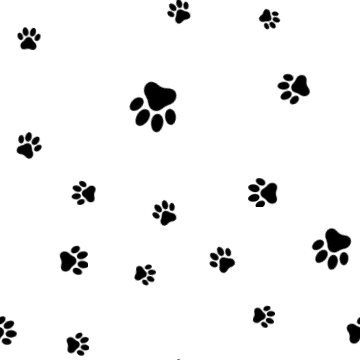
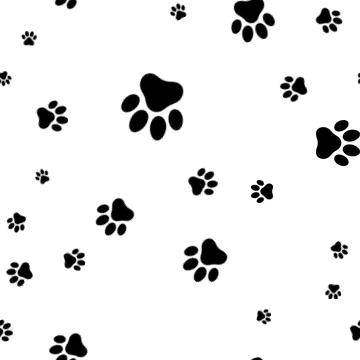
Papier peint sur tout l'écran (grille de tuiles), tailles et angles plus variés

diff --git a/frontend/App.js b/frontend/App.js
@@ -1,5 +1,5 @@
 import React, { useCallback, useEffect, useState } from 'react';
-import { ActivityIndicator, AppState, Image, Modal, Pressable, StatusBar, StyleSheet, Text, View } from 'react-native';
+import { ActivityIndicator, AppState, Image, Modal, Pressable, StatusBar, StyleSheet, Text, View, useWindowDimensions } from 'react-native';
 import * as Notifications from 'expo-notifications';
 
 import { CATS, ALERT, ALERT_SOFT, buttonLabel, sinceLabel } from './src/cats';
@@ -9,6 +9,7 @@ import { setupChannels, registerForPush } from './src/notifications';
 import { refreshWidgets } from './src/widget/refresh';
 
 const PAWS = require('./assets/paws.png');
+const PAWS_TILE = 360; // taille de la tuile en dp
 
 export default function App() {
   const [cat, setCatState] = useState(undefined); // undefined = chargement, null = pas encore choisi
@@ -141,9 +142,27 @@ export default function App() {
   );
 }
 
-// Papier peint de pattes : une tuile répétée, teintée selon le thème
+// Papier peint de pattes : grille de tuiles couvrant l'écran, teintées selon le thème
+// (resizeMode="repeat" ne répète pas l'image sur Android)
 function Wallpaper({ color }) {
-  return <Image source={PAWS} resizeMode="repeat" style={[StyleSheet.absoluteFill, { tintColor: color }]} />;
+  const { width, height } = useWindowDimensions();
+  const tiles = [];
+  for (let y = 0; y < height + PAWS_TILE; y += PAWS_TILE) {
+    for (let x = 0; x < width; x += PAWS_TILE) {
+      tiles.push(
+        <Image
+          key={`${x}-${y}`}
+          source={PAWS}
+          style={{ position: 'absolute', left: x, top: y, width: PAWS_TILE, height: PAWS_TILE, tintColor: color }}
+        />
+      );
+    }
+  }
+  return (
+    <View pointerEvents="none" style={StyleSheet.absoluteFill}>
+      {tiles}
+    </View>
+  );
 }
 
 // Une ligne « tête + nom + pastille dehors/dedans »
